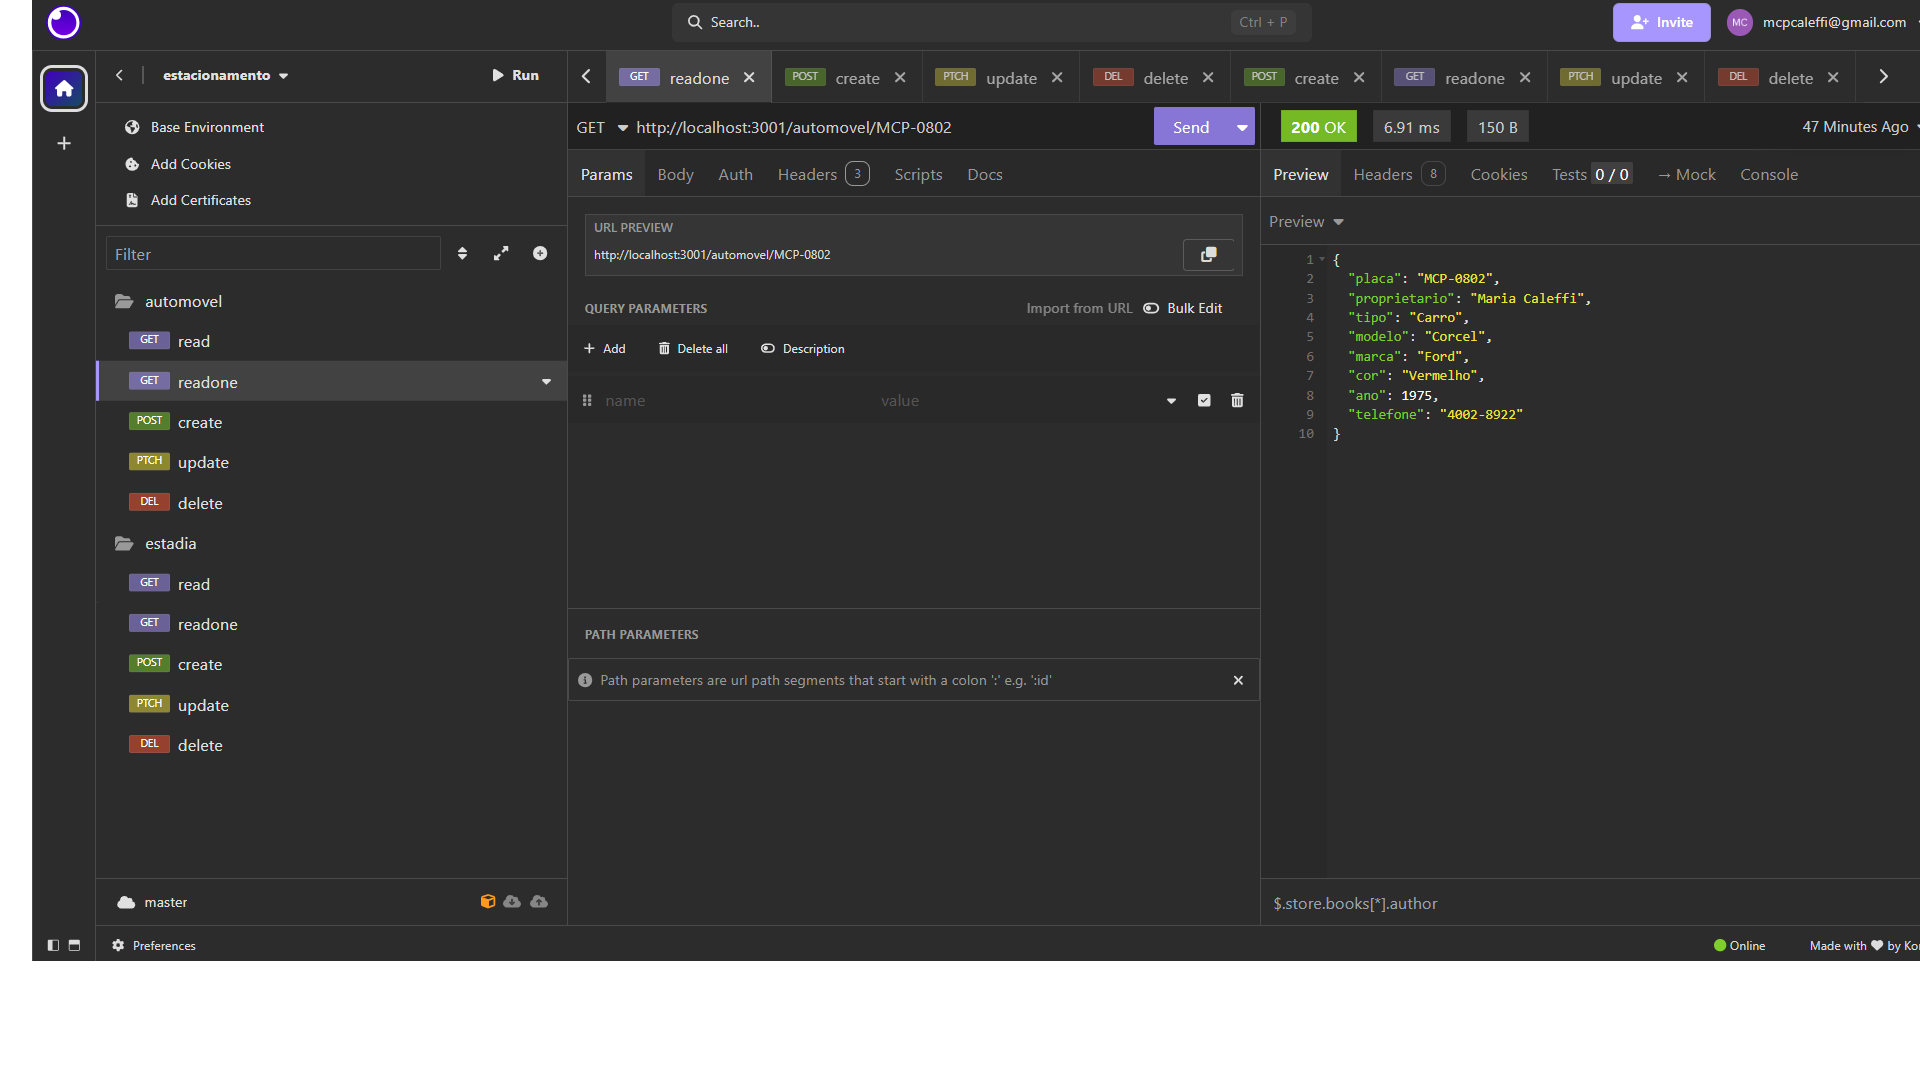
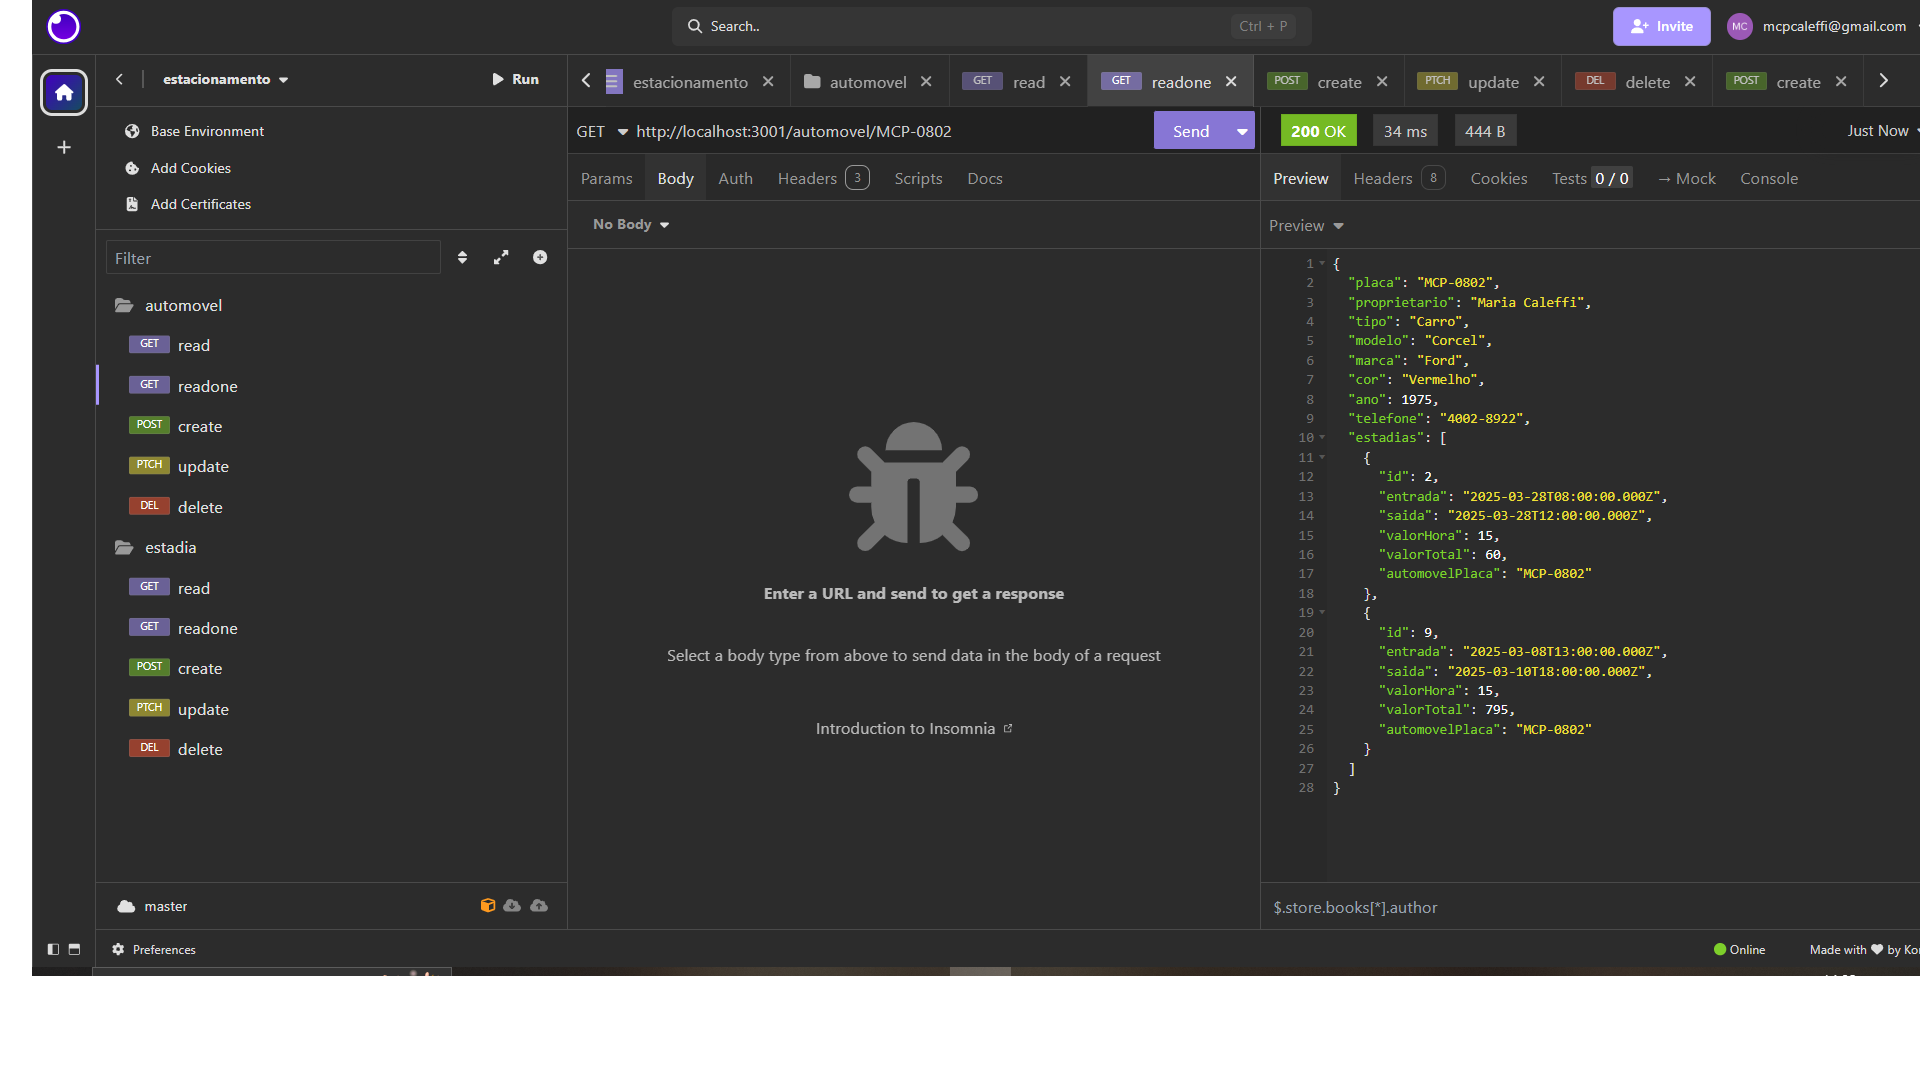
pbe

diff --git a/api/src/controllers/automovel.js b/api/src/controllers/automovel.js
@@ -24,16 +24,19 @@ const read = async (req, res) => {
 const readOne = async (req, res) => {
     try {
         const automovel = await prisma.automovel.findUnique({
-            where: { placa: req.params.placa },
+            where: {
+                placa: req.params.placa
+            },
+            include: {
+                estadias: true
+            }
         });
-
         if (!automovel) {
-            return res.status(404).json({ error: 'Automóvel não encontrado.' });
+            return res.status(404).json({ error: "Automóvel não encontrado" }).end();
         }
-
-        return res.status(200).json(automovel);
-    } catch (error) {
-        return res.status(400).json({ error: error.message });
+        res.json(automovel);
+    } catch (e) {
+        res.status(400).json({ error: e.message }).end();
     }
 };
 
